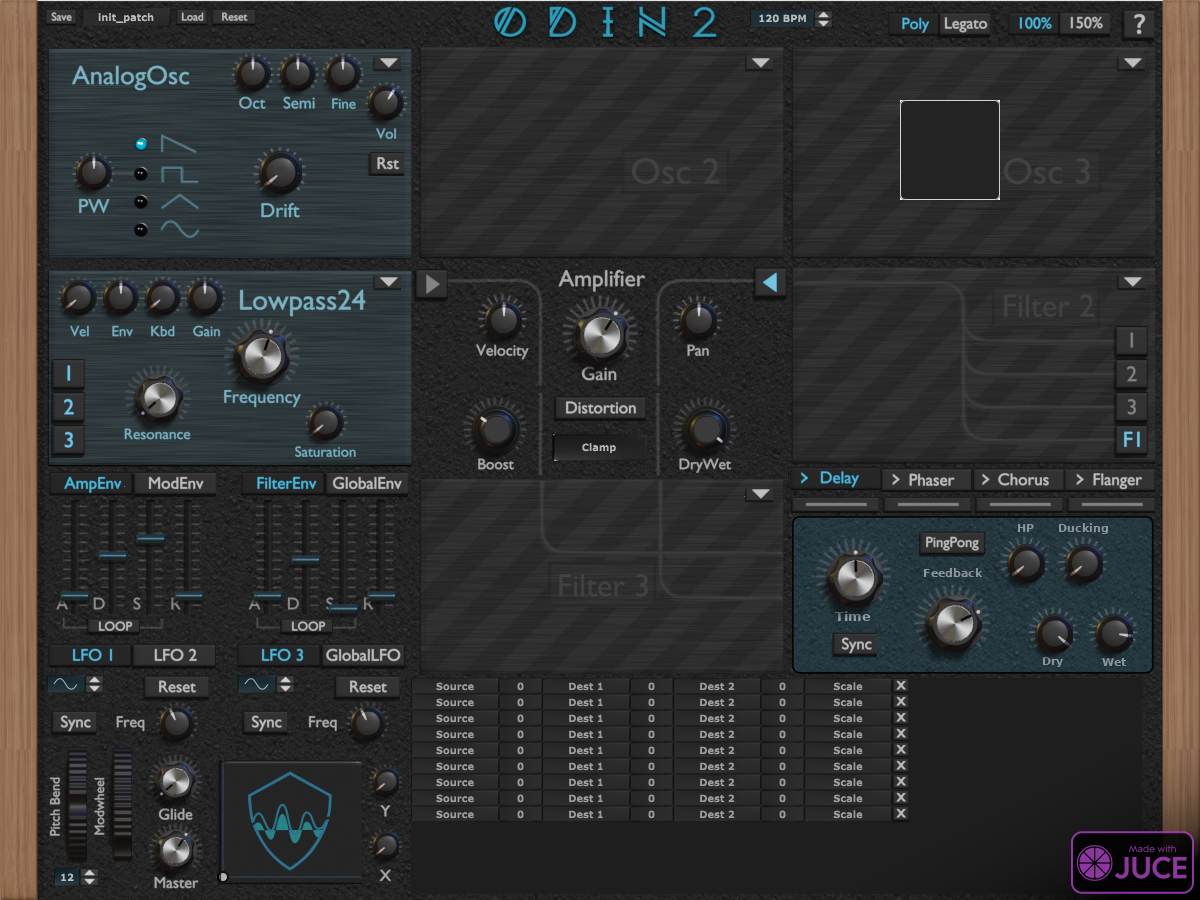
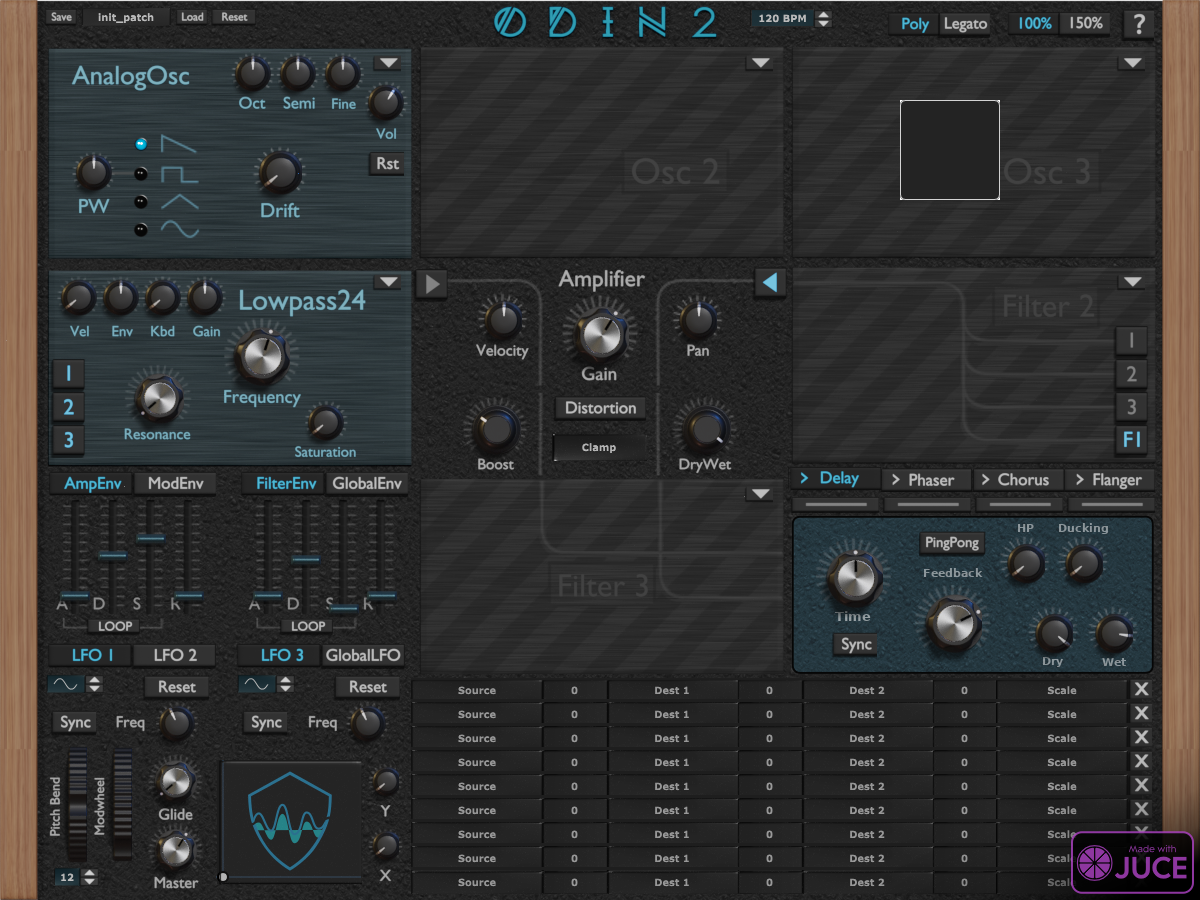
modmatrix somewhat working

diff --git a/Source/ModMatrixComponent.cpp b/Source/ModMatrixComponent.cpp
@@ -1072,3 +1072,287 @@ void ModMatrixComponent::forceValueTreeOntoComponents(ValueTree p_tree) {
 		m_amount_3[row].setValue(m_value_tree.state.getChildWithName("mod")[String("amount_2_row_" + std::to_string(row))]);
 	}
 }
+
+
+void ModMatrixComponent::setGUIBig(){
+	m_GUI_big = true;
+
+	    juce::Image glas_left_down =
+	    ImageCache::getFromMemory(BinaryData::modpanelbig_left_down_150_png, BinaryData::modpanelbig_left_down_150_pngSize);
+	juce::Image glas_left_mid =
+	    ImageCache::getFromMemory(BinaryData::modpanelbig_left_mid_150_png, BinaryData::modpanelbig_left_mid_150_pngSize);
+	juce::Image glas_left_up =
+	    ImageCache::getFromMemory(BinaryData::modpanelbig_left_up_150_png, BinaryData::modpanelbig_left_up_150_pngSize);
+	juce::Image glas_mid_down =
+	    ImageCache::getFromMemory(BinaryData::modpanelbig_mid_down_150_png, BinaryData::modpanelbig_mid_down_150_pngSize);
+	juce::Image glas_mid_mid =
+	    ImageCache::getFromMemory(BinaryData::modpanelbig_mid_mid_150_png, BinaryData::modpanelbig_mid_mid_150_pngSize);
+	juce::Image glas_mid_up =
+	    ImageCache::getFromMemory(BinaryData::modpanelbig_mid_up_150_png, BinaryData::modpanelbig_mid_up_150_pngSize);
+	juce::Image glas_right_down =
+	    ImageCache::getFromMemory(BinaryData::modpanelbig_right_down_150_png, BinaryData::modpanelbig_right_down_150_pngSize);
+	juce::Image glas_right_mid =
+	    ImageCache::getFromMemory(BinaryData::modpanelbig_right_mid_150_png, BinaryData::modpanelbig_right_mid_150_pngSize);
+	juce::Image glas_right_up =
+	    ImageCache::getFromMemory(BinaryData::modpanelbig_right_up_150_png, BinaryData::modpanelbig_right_up_150_pngSize);
+	juce::Image glas_small_down =
+	    ImageCache::getFromMemory(BinaryData::modpanelsmall_down_150_png, BinaryData::modpanelsmall_down_150_pngSize);
+	juce::Image glas_small_mid =
+	    ImageCache::getFromMemory(BinaryData::modpanelsmall_mid_150_png, BinaryData::modpanelsmall_mid_150_pngSize);
+	juce::Image glas_small_up =
+	    ImageCache::getFromMemory(BinaryData::modpanelsmall_up_150_png, BinaryData::modpanelsmall_up_150_pngSize);
+
+	m_source[0].setImage(glas_left_up);
+	m_amount_1[0].setImage(glas_small_up);
+	m_dest_1[0].setImage(glas_mid_up);
+	m_amount_2[0].setImage(glas_small_up);
+	m_dest_2[0].setImage(glas_mid_up);
+	m_amount_3[0].setImage(glas_small_up);
+	m_scale[0].setImage(glas_right_up);
+	for (int i = 1; i < N_ROWS - 1; ++i) {
+		m_source[i].setImage(glas_left_mid);
+		m_amount_1[i].setImage(glas_small_mid);
+		m_dest_1[i].setImage(glas_mid_mid);
+		m_amount_2[i].setImage(glas_small_mid);
+		m_dest_2[i].setImage(glas_mid_mid);
+		m_amount_3[i].setImage(glas_small_mid);
+		m_scale[i].setImage(glas_right_mid);
+	}
+	m_source[N_ROWS - 1].setImage(glas_left_down);
+	m_amount_1[N_ROWS - 1].setImage(glas_small_down);
+	m_dest_1[N_ROWS - 1].setImage(glas_mid_down);
+	m_amount_2[N_ROWS - 1].setImage(glas_small_down);
+	m_dest_2[N_ROWS - 1].setImage(glas_mid_down);
+	m_amount_3[N_ROWS - 1].setImage(glas_small_down);
+	m_scale[N_ROWS - 1].setImage(glas_right_down);
+
+	m_small_panel_width = glas_small_down.getWidth();
+	m_big_panel_width   = glas_mid_down.getWidth();
+	m_panel_height      = glas_left_down.getHeight();
+
+	juce::Image clear_1 = ImageCache::getFromMemory(BinaryData::buttonclear_1_150_png, BinaryData::buttonclear_1_150_pngSize);
+	juce::Image clear_2 = ImageCache::getFromMemory(BinaryData::buttonclear_2_150_png, BinaryData::buttonclear_2_150_pngSize);
+	juce::Image clearlast_1 =
+	    ImageCache::getFromMemory(BinaryData::buttonclearlast_1_150_png, BinaryData::buttonclearlast_1_150_pngSize);
+	juce::Image clearlast_2 =
+	    ImageCache::getFromMemory(BinaryData::buttonclearlast_2_150_png, BinaryData::buttonclearlast_2_150_pngSize);
+
+	juce::DrawableImage clear_draw1;
+	juce::DrawableImage clear_draw2;
+	juce::DrawableImage clearlast_draw1;
+	juce::DrawableImage clearlast_draw2;
+
+	clear_draw1.setImage(clear_1);
+	clear_draw2.setImage(clear_2);
+	clearlast_draw1.setImage(clearlast_1);
+	clearlast_draw2.setImage(clearlast_2);
+	m_clear_button0.setImages(
+	    &clear_draw2, &clear_draw2, &clear_draw1, &clear_draw1, &clear_draw2, &clear_draw2, &clear_draw1, &clear_draw1);
+	m_clear_button0.setClickingTogglesState(true);
+	m_clear_button0.setBounds(
+	    4 * m_big_panel_width + 3 * m_small_panel_width, 0 * m_panel_height, clear_1.getWidth(), m_panel_height);
+
+	m_clear_button1.setImages(
+	    &clear_draw2, &clear_draw2, &clear_draw1, &clear_draw1, &clear_draw2, &clear_draw2, &clear_draw1, &clear_draw1);
+	m_clear_button1.setBounds(
+	    4 * m_big_panel_width + 3 * m_small_panel_width, 1 * m_panel_height, clear_1.getWidth(), m_panel_height);
+
+	m_clear_button2.setImages(
+	    &clear_draw2, &clear_draw2, &clear_draw1, &clear_draw1, &clear_draw2, &clear_draw2, &clear_draw1, &clear_draw1);
+	m_clear_button2.setBounds(
+	    4 * m_big_panel_width + 3 * m_small_panel_width, 2 * m_panel_height, clear_1.getWidth(), m_panel_height);
+
+	m_clear_button3.setImages(
+	    &clear_draw2, &clear_draw2, &clear_draw1, &clear_draw1, &clear_draw2, &clear_draw2, &clear_draw1, &clear_draw1);
+	m_clear_button3.setBounds(
+	    4 * m_big_panel_width + 3 * m_small_panel_width, 3 * m_panel_height, clear_1.getWidth(), m_panel_height);
+
+	m_clear_button4.setImages(
+	    &clear_draw2, &clear_draw2, &clear_draw1, &clear_draw1, &clear_draw2, &clear_draw2, &clear_draw1, &clear_draw1);
+	m_clear_button4.setBounds(
+	    4 * m_big_panel_width + 3 * m_small_panel_width, 4 * m_panel_height, clear_1.getWidth(), m_panel_height);
+
+	m_clear_button5.setImages(
+	    &clear_draw2, &clear_draw2, &clear_draw1, &clear_draw1, &clear_draw2, &clear_draw2, &clear_draw1, &clear_draw1);
+	m_clear_button5.setBounds(
+	    4 * m_big_panel_width + 3 * m_small_panel_width, 5 * m_panel_height, clear_1.getWidth(), m_panel_height);
+
+	m_clear_button6.setImages(
+	    &clear_draw2, &clear_draw2, &clear_draw1, &clear_draw1, &clear_draw2, &clear_draw2, &clear_draw1, &clear_draw1);
+	m_clear_button6.setBounds(
+	    4 * m_big_panel_width + 3 * m_small_panel_width, 6 * m_panel_height, clear_1.getWidth(), m_panel_height);
+
+	m_clear_button7.setImages(
+	    &clear_draw2, &clear_draw2, &clear_draw1, &clear_draw1, &clear_draw2, &clear_draw2, &clear_draw1, &clear_draw1);
+	m_clear_button7.setBounds(
+	    4 * m_big_panel_width + 3 * m_small_panel_width, 7 * m_panel_height, clear_1.getWidth(), m_panel_height);
+
+	m_clear_button8.setImages(&clearlast_draw2,
+	                          &clearlast_draw2,
+	                          &clearlast_draw1,
+	                          &clearlast_draw1,
+	                          &clearlast_draw2,
+	                          &clearlast_draw2,
+	                          &clearlast_draw1,
+	                          &clearlast_draw1);
+	m_clear_button8.setBounds(
+	    4 * m_big_panel_width + 3 * m_small_panel_width, 8 * m_panel_height, clearlast_1.getWidth(), m_panel_height);
+
+	for (int i = 0; i < N_ROWS; ++i) {
+		m_source[i].setBounds(0, i * m_panel_height, m_big_panel_width, m_panel_height);
+		m_amount_1[i].setBounds(m_big_panel_width, i * m_panel_height, m_small_panel_width, m_panel_height);
+		m_dest_1[i].setBounds(
+		    m_big_panel_width + m_small_panel_width, i * m_panel_height, m_big_panel_width, m_panel_height);
+		m_amount_2[i].setBounds(
+		    2 * m_big_panel_width + m_small_panel_width, i * m_panel_height, m_small_panel_width, m_panel_height);
+		m_dest_2[i].setBounds(
+		    2 * m_big_panel_width + 2 * m_small_panel_width, i * m_panel_height, m_big_panel_width, m_panel_height);
+		m_amount_3[i].setBounds(
+		    3 * m_big_panel_width + 2 * m_small_panel_width, i * m_panel_height, m_small_panel_width, m_panel_height);
+		m_scale[i].setBounds(
+		    3 * m_big_panel_width + 3 * m_small_panel_width, i * m_panel_height, m_big_panel_width, m_panel_height);
+	}
+
+	forceValueTreeOntoComponents(m_value_tree.state);
+}
+void ModMatrixComponent::setGUISmall(){
+	m_GUI_big = false;
+
+	    juce::Image glas_left_down =
+	    ImageCache::getFromMemory(BinaryData::modpanelbig_left_down_png, BinaryData::modpanelbig_left_down_pngSize);
+	juce::Image glas_left_mid =
+	    ImageCache::getFromMemory(BinaryData::modpanelbig_left_mid_png, BinaryData::modpanelbig_left_mid_pngSize);
+	juce::Image glas_left_up =
+	    ImageCache::getFromMemory(BinaryData::modpanelbig_left_up_png, BinaryData::modpanelbig_left_up_pngSize);
+	juce::Image glas_mid_down =
+	    ImageCache::getFromMemory(BinaryData::modpanelbig_mid_down_png, BinaryData::modpanelbig_mid_down_pngSize);
+	juce::Image glas_mid_mid =
+	    ImageCache::getFromMemory(BinaryData::modpanelbig_mid_mid_png, BinaryData::modpanelbig_mid_mid_pngSize);
+	juce::Image glas_mid_up =
+	    ImageCache::getFromMemory(BinaryData::modpanelbig_mid_up_png, BinaryData::modpanelbig_mid_up_pngSize);
+	juce::Image glas_right_down =
+	    ImageCache::getFromMemory(BinaryData::modpanelbig_right_down_png, BinaryData::modpanelbig_right_down_pngSize);
+	juce::Image glas_right_mid =
+	    ImageCache::getFromMemory(BinaryData::modpanelbig_right_mid_png, BinaryData::modpanelbig_right_mid_pngSize);
+	juce::Image glas_right_up =
+	    ImageCache::getFromMemory(BinaryData::modpanelbig_right_up_png, BinaryData::modpanelbig_right_up_pngSize);
+	juce::Image glas_small_down =
+	    ImageCache::getFromMemory(BinaryData::modpanelsmall_down_png, BinaryData::modpanelsmall_down_pngSize);
+	juce::Image glas_small_mid =
+	    ImageCache::getFromMemory(BinaryData::modpanelsmall_mid_png, BinaryData::modpanelsmall_mid_pngSize);
+	juce::Image glas_small_up =
+	    ImageCache::getFromMemory(BinaryData::modpanelsmall_up_png, BinaryData::modpanelsmall_up_pngSize);
+
+	m_source[0].setImage(glas_left_up);
+	m_amount_1[0].setImage(glas_small_up);
+	m_dest_1[0].setImage(glas_mid_up);
+	m_amount_2[0].setImage(glas_small_up);
+	m_dest_2[0].setImage(glas_mid_up);
+	m_amount_3[0].setImage(glas_small_up);
+	m_scale[0].setImage(glas_right_up);
+	for (int i = 1; i < N_ROWS - 1; ++i) {
+		m_source[i].setImage(glas_left_mid);
+		m_amount_1[i].setImage(glas_small_mid);
+		m_dest_1[i].setImage(glas_mid_mid);
+		m_amount_2[i].setImage(glas_small_mid);
+		m_dest_2[i].setImage(glas_mid_mid);
+		m_amount_3[i].setImage(glas_small_mid);
+		m_scale[i].setImage(glas_right_mid);
+	}
+	m_source[N_ROWS - 1].setImage(glas_left_down);
+	m_amount_1[N_ROWS - 1].setImage(glas_small_down);
+	m_dest_1[N_ROWS - 1].setImage(glas_mid_down);
+	m_amount_2[N_ROWS - 1].setImage(glas_small_down);
+	m_dest_2[N_ROWS - 1].setImage(glas_mid_down);
+	m_amount_3[N_ROWS - 1].setImage(glas_small_down);
+	m_scale[N_ROWS - 1].setImage(glas_right_down);
+
+	m_small_panel_width = glas_small_down.getWidth();
+	m_big_panel_width   = glas_mid_down.getWidth();
+	m_panel_height      = glas_left_down.getHeight();
+
+	juce::Image clear_1 = ImageCache::getFromMemory(BinaryData::buttonclear_1_png, BinaryData::buttonclear_1_pngSize);
+	juce::Image clear_2 = ImageCache::getFromMemory(BinaryData::buttonclear_2_png, BinaryData::buttonclear_2_pngSize);
+	juce::Image clearlast_1 =
+	    ImageCache::getFromMemory(BinaryData::buttonclearlast_1_png, BinaryData::buttonclearlast_1_pngSize);
+	juce::Image clearlast_2 =
+	    ImageCache::getFromMemory(BinaryData::buttonclearlast_2_png, BinaryData::buttonclearlast_2_pngSize);
+
+	juce::DrawableImage clear_draw1;
+	juce::DrawableImage clear_draw2;
+	juce::DrawableImage clearlast_draw1;
+	juce::DrawableImage clearlast_draw2;
+
+	clear_draw1.setImage(clear_1);
+	clear_draw2.setImage(clear_2);
+	clearlast_draw1.setImage(clearlast_1);
+	clearlast_draw2.setImage(clearlast_2);
+	m_clear_button0.setImages(
+	    &clear_draw2, &clear_draw2, &clear_draw1, &clear_draw1, &clear_draw2, &clear_draw2, &clear_draw1, &clear_draw1);
+	m_clear_button0.setClickingTogglesState(true);
+	m_clear_button0.setBounds(
+	    4 * m_big_panel_width + 3 * m_small_panel_width, 0 * m_panel_height, clear_1.getWidth(), m_panel_height);
+
+	m_clear_button1.setImages(
+	    &clear_draw2, &clear_draw2, &clear_draw1, &clear_draw1, &clear_draw2, &clear_draw2, &clear_draw1, &clear_draw1);
+	m_clear_button1.setBounds(
+	    4 * m_big_panel_width + 3 * m_small_panel_width, 1 * m_panel_height, clear_1.getWidth(), m_panel_height);
+
+	m_clear_button2.setImages(
+	    &clear_draw2, &clear_draw2, &clear_draw1, &clear_draw1, &clear_draw2, &clear_draw2, &clear_draw1, &clear_draw1);
+	m_clear_button2.setBounds(
+	    4 * m_big_panel_width + 3 * m_small_panel_width, 2 * m_panel_height, clear_1.getWidth(), m_panel_height);
+
+	m_clear_button3.setImages(
+	    &clear_draw2, &clear_draw2, &clear_draw1, &clear_draw1, &clear_draw2, &clear_draw2, &clear_draw1, &clear_draw1);
+	m_clear_button3.setBounds(
+	    4 * m_big_panel_width + 3 * m_small_panel_width, 3 * m_panel_height, clear_1.getWidth(), m_panel_height);
+
+	m_clear_button4.setImages(
+	    &clear_draw2, &clear_draw2, &clear_draw1, &clear_draw1, &clear_draw2, &clear_draw2, &clear_draw1, &clear_draw1);
+	m_clear_button4.setBounds(
+	    4 * m_big_panel_width + 3 * m_small_panel_width, 4 * m_panel_height, clear_1.getWidth(), m_panel_height);
+
+	m_clear_button5.setImages(
+	    &clear_draw2, &clear_draw2, &clear_draw1, &clear_draw1, &clear_draw2, &clear_draw2, &clear_draw1, &clear_draw1);
+	m_clear_button5.setBounds(
+	    4 * m_big_panel_width + 3 * m_small_panel_width, 5 * m_panel_height, clear_1.getWidth(), m_panel_height);
+
+	m_clear_button6.setImages(
+	    &clear_draw2, &clear_draw2, &clear_draw1, &clear_draw1, &clear_draw2, &clear_draw2, &clear_draw1, &clear_draw1);
+	m_clear_button6.setBounds(
+	    4 * m_big_panel_width + 3 * m_small_panel_width, 6 * m_panel_height, clear_1.getWidth(), m_panel_height);
+
+	m_clear_button7.setImages(
+	    &clear_draw2, &clear_draw2, &clear_draw1, &clear_draw1, &clear_draw2, &clear_draw2, &clear_draw1, &clear_draw1);
+	m_clear_button7.setBounds(
+	    4 * m_big_panel_width + 3 * m_small_panel_width, 7 * m_panel_height, clear_1.getWidth(), m_panel_height);
+
+	m_clear_button8.setImages(&clearlast_draw2,
+	                          &clearlast_draw2,
+	                          &clearlast_draw1,
+	                          &clearlast_draw1,
+	                          &clearlast_draw2,
+	                          &clearlast_draw2,
+	                          &clearlast_draw1,
+	                          &clearlast_draw1);
+	m_clear_button8.setBounds(
+	    4 * m_big_panel_width + 3 * m_small_panel_width, 8 * m_panel_height, clearlast_1.getWidth(), m_panel_height);
+
+	for (int i = 0; i < N_ROWS; ++i) {
+		m_source[i].setBounds(0, i * m_panel_height, m_big_panel_width, m_panel_height);
+		m_amount_1[i].setBounds(m_big_panel_width, i * m_panel_height, m_small_panel_width, m_panel_height);
+		m_dest_1[i].setBounds(
+		    m_big_panel_width + m_small_panel_width, i * m_panel_height, m_big_panel_width, m_panel_height);
+		m_amount_2[i].setBounds(
+		    2 * m_big_panel_width + m_small_panel_width, i * m_panel_height, m_small_panel_width, m_panel_height);
+		m_dest_2[i].setBounds(
+		    2 * m_big_panel_width + 2 * m_small_panel_width, i * m_panel_height, m_big_panel_width, m_panel_height);
+		m_amount_3[i].setBounds(
+		    3 * m_big_panel_width + 2 * m_small_panel_width, i * m_panel_height, m_small_panel_width, m_panel_height);
+		m_scale[i].setBounds(
+		    3 * m_big_panel_width + 3 * m_small_panel_width, i * m_panel_height, m_big_panel_width, m_panel_height);
+	}
+
+	forceValueTreeOntoComponents(m_value_tree.state);
+}

diff --git a/Source/PluginEditor.cpp b/Source/PluginEditor.cpp
@@ -1474,6 +1474,7 @@ void OdinAudioProcessorEditor::setGUISizeBig(bool p_big) {
 		m_chorus.setGUIBig();
 		m_flanger.setGUIBig();
 		m_fx_buttons_section.setGUIBig();
+		m_mod_matrix.setGUIBig();
 		setGUIBig();
 	} else {
 		g_GUI_big = false;
@@ -1498,6 +1499,7 @@ void OdinAudioProcessorEditor::setGUISizeBig(bool p_big) {
 		m_chorus.setGUISmall();
 		m_flanger.setGUISmall();
 		m_fx_buttons_section.setGUISmall();
+		m_mod_matrix.setGUISmall();
 		setGUISmall();
 	}
 

diff --git a/Source/ModMatrixComponent.h b/Source/ModMatrixComponent.h
@@ -30,7 +30,13 @@ public:
 
   void paint(Graphics &) override;
 
+  void setGUIBig();
+  void setGUISmall();
+
 private:
+
+  bool m_GUI_big = false;
+  
   void clearRow(int p_row);
 
   void createMenu(PopupMenu* p_menu);
